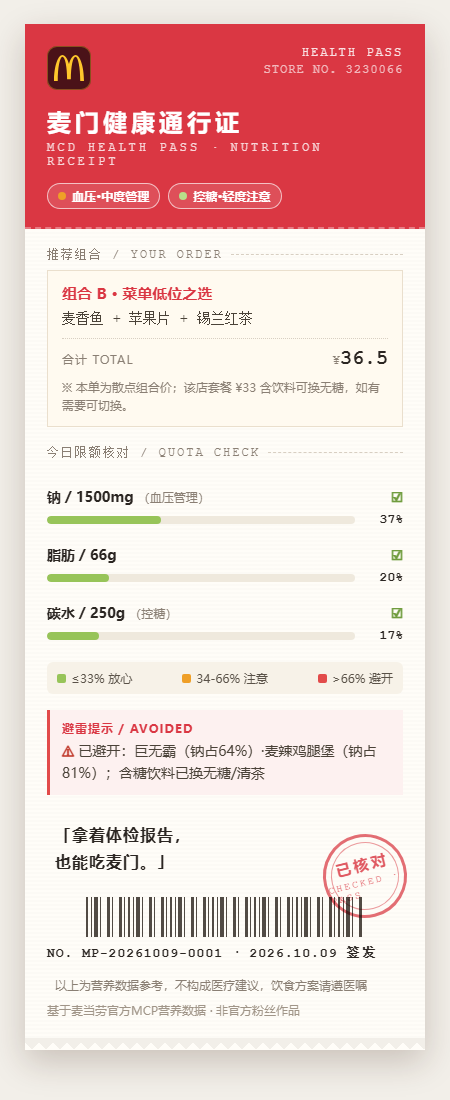
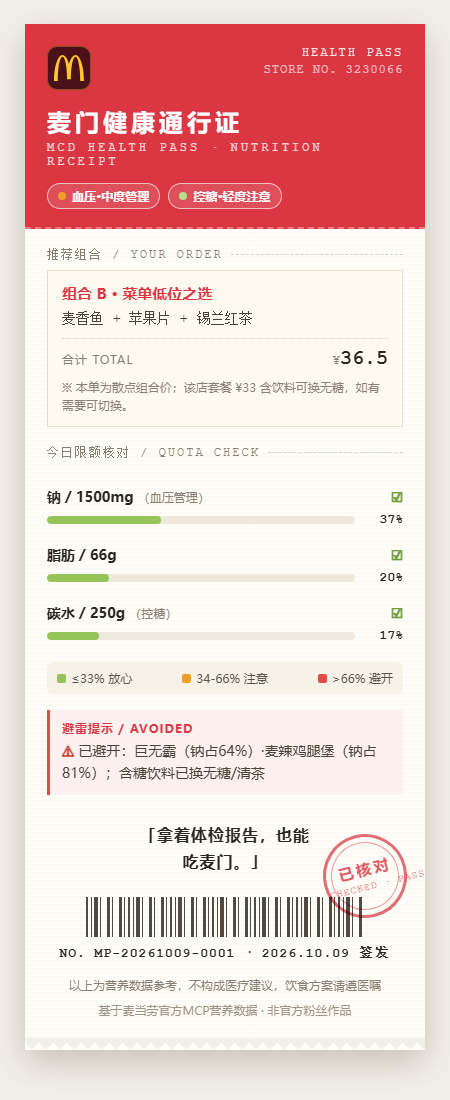
fix: card footer - slogan one line centered, stamp text centered within circle

diff --git a/assets/card_template.html b/assets/card_template.html
@@ -183,10 +183,11 @@
     mix-blend-mode: multiply;
     z-index: 2;
   }
-  .stamp .big { font-size: 15px; font-weight: 800; letter-spacing: 3px; }
+  .stamp .big { font-size: 15px; font-weight: 800; letter-spacing: 3px; text-indent: 3px; }
   .stamp .sm {
     font-family: "Courier New", ui-monospace, monospace;
-    font-size: 10px; letter-spacing: 2px; margin-top: 3px;
+    font-size: 10px; letter-spacing: 1px; margin-top: 3px;
+    white-space: nowrap; text-align: center; width: 100%; text-indent: 0;
   }
   .stamp::before {
     content: ""; position: absolute; inset: 5px;
@@ -223,12 +224,11 @@
   .avoid p .warn { color: #c0392b; font-weight: 700; }
 
   /* ============ 票据底部 ============ */
-  .r-foot { padding: 20px 22px 0; position: relative; }
+  .r-foot { padding: 20px 22px 0; position: relative; text-align: center; }
 
   .slogan {
     font-size: 16px; font-weight: 700; letter-spacing: 1px;
-    color: #2b2622; padding: 0 96px 0 8px; line-height: 1.7;
-    text-align: left;
+    color: #2b2622; padding: 0 90px; line-height: 1.7;
   }
 
   .barcode {
@@ -362,7 +362,7 @@
 
   <!-- 票据底部 -->
   <div class="r-foot">
-    <div class="slogan">「拿着体检报告，<br>也能吃麦门。」</div>
+    <div class="slogan">「拿着体检报告，也能吃麦门。」</div>
     <div class="stamp">
       <span class="big">已核对</span>
       <span class="sm">CHECKED · PASS</span>
